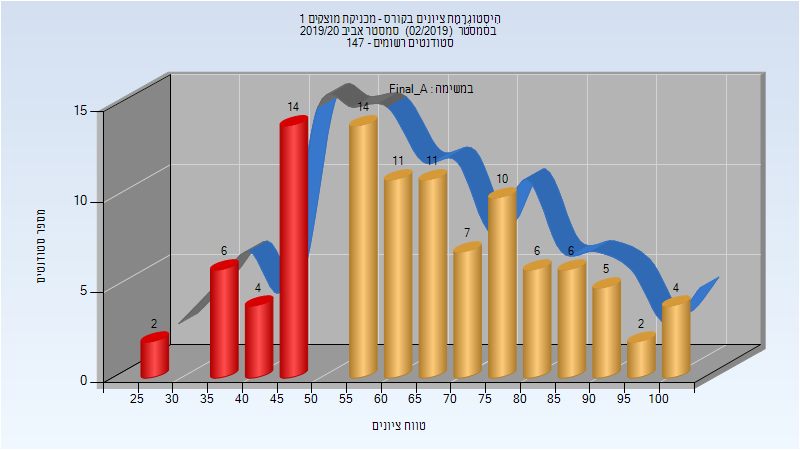
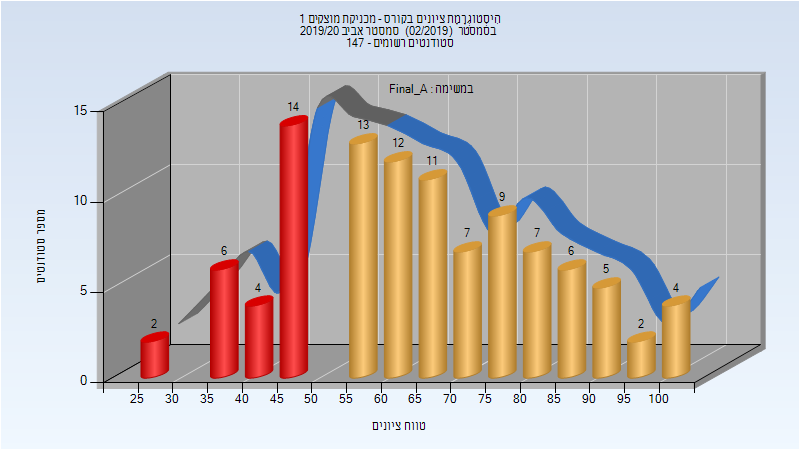
Deploy michael-maltsev/technion-histograms to github.com/michael-maltsev/technion-histograms.git:gh-pages

Changed region(s): [[0.4062, 0.1867, 0.5938, 0.4044], [0.6562, 0.4667, 0.7812, 0.6222], [0.5938, 0.3733, 0.7188, 0.4978]]

diff --git a/104131/index.html b/104131/index.html
@@ -1914,5 +1914,57 @@
 </tr>
 </tbody>
 </table>
+<h3>מבחן מועד א'</h3>
+<p><img src="201902/Exam_A.png" alt="201902 Exam_A" /></p>
+<table>
+<thead>
+<tr>
+<th>סטודנטים</th>
+<th>עברו/נכשלו</th>
+<th>אחוז עוברים</th>
+<th>ציון מינימלי</th>
+<th>ציון מקסימלי</th>
+<th>ממוצע</th>
+<th>חציון</th>
+</tr>
+</thead>
+<tbody>
+<tr>
+<td>316</td>
+<td>287/29</td>
+<td>91</td>
+<td>0</td>
+<td>100</td>
+<td>80.364</td>
+<td>86</td>
+</tr>
+</tbody>
+</table>
+<h3>סופי מועד א'</h3>
+<p><img src="201902/Final_A.png" alt="201902 Final_A" /></p>
+<table>
+<thead>
+<tr>
+<th>סטודנטים</th>
+<th>עברו/נכשלו</th>
+<th>אחוז עוברים</th>
+<th>ציון מינימלי</th>
+<th>ציון מקסימלי</th>
+<th>ממוצע</th>
+<th>חציון</th>
+</tr>
+</thead>
+<tbody>
+<tr>
+<td>316</td>
+<td>296/20</td>
+<td>94</td>
+<td>8</td>
+<td>100</td>
+<td>81.842</td>
+<td>87</td>
+</tr>
+</tbody>
+</table>
   </body>
 </html>

diff --git a/034028/index.html b/034028/index.html
@@ -1359,8 +1359,34 @@
 <td>75</td>
 <td>28</td>
 <td>100</td>
-<td>65.373</td>
-<td>64</td>
+<td>65.441</td>
+<td>64.5</td>
+</tr>
+</tbody>
+</table>
+<h3>סופי</h3>
+<p><img src="201902/Finals.png" alt="201902 Finals" /></p>
+<table>
+<thead>
+<tr>
+<th>סטודנטים</th>
+<th>עברו/נכשלו</th>
+<th>אחוז עוברים</th>
+<th>ציון מינימלי</th>
+<th>ציון מקסימלי</th>
+<th>ממוצע</th>
+<th>חציון</th>
+</tr>
+</thead>
+<tbody>
+<tr>
+<td>102</td>
+<td>76/26</td>
+<td>75</td>
+<td>28</td>
+<td>100</td>
+<td>65.441</td>
+<td>64.5</td>
 </tr>
 </tbody>
 </table>

diff --git a/104022/index.html b/104022/index.html
@@ -1893,7 +1893,7 @@
 <td>66</td>
 <td>6</td>
 <td>100</td>
-<td>62.395</td>
+<td>62.543</td>
 <td>61</td>
 </tr>
 </tbody>
@@ -1915,11 +1915,11 @@
 <tbody>
 <tr>
 <td>258</td>
-<td>194/64</td>
-<td>75</td>
+<td>198/60</td>
+<td>77</td>
 <td>6</td>
 <td>100</td>
-<td>66.074</td>
+<td>66.357</td>
 <td>68.5</td>
 </tr>
 </tbody>

diff --git a/104131/README.md b/104131/README.md
@@ -602,3 +602,19 @@
 | פוגרבניאק ילנה | מרצה - אחראי מקצוע |
 | ליטבינוב גלינה | מתרגל |
 
+### מבחן מועד א'
+
+![201902 Exam_A](201902/Exam_A.png)
+
+| סטודנטים | עברו/נכשלו | אחוז עוברים | ציון מינימלי | ציון מקסימלי | ממוצע | חציון |
+| ---- | ---- | ---- | ---- | ---- | ---- | ---- |
+| 316 | 287/29 | 91 | 0 | 100 | 80.364 | 86 |
+
+### סופי מועד א'
+
+![201902 Final_A](201902/Final_A.png)
+
+| סטודנטים | עברו/נכשלו | אחוז עוברים | ציון מינימלי | ציון מקסימלי | ממוצע | חציון |
+| ---- | ---- | ---- | ---- | ---- | ---- | ---- |
+| 316 | 296/20 | 94 | 8 | 100 | 81.842 | 87 |
+

diff --git a/104022/README.md b/104022/README.md
@@ -595,7 +595,7 @@
 
 | סטודנטים | עברו/נכשלו | אחוז עוברים | ציון מינימלי | ציון מקסימלי | ממוצע | חציון |
 | ---- | ---- | ---- | ---- | ---- | ---- | ---- |
-| 258 | 170/88 | 66 | 6 | 100 | 62.395 | 61 |
+| 258 | 170/88 | 66 | 6 | 100 | 62.543 | 61 |
 
 ### סופי מועד א'
 
@@ -603,5 +603,5 @@
 
 | סטודנטים | עברו/נכשלו | אחוז עוברים | ציון מינימלי | ציון מקסימלי | ממוצע | חציון |
 | ---- | ---- | ---- | ---- | ---- | ---- | ---- |
-| 258 | 194/64 | 75 | 6 | 100 | 66.074 | 68.5 |
+| 258 | 198/60 | 77 | 6 | 100 | 66.357 | 68.5 |
 

diff --git a/034028/README.md b/034028/README.md
@@ -422,5 +422,13 @@
 
 | סטודנטים | עברו/נכשלו | אחוז עוברים | ציון מינימלי | ציון מקסימלי | ממוצע | חציון |
 | ---- | ---- | ---- | ---- | ---- | ---- | ---- |
-| 102 | 76/26 | 75 | 28 | 100 | 65.373 | 64 |
+| 102 | 76/26 | 75 | 28 | 100 | 65.441 | 64.5 |
+
+### סופי
+
+![201902 Finals](201902/Finals.png)
+
+| סטודנטים | עברו/נכשלו | אחוז עוברים | ציון מינימלי | ציון מקסימלי | ממוצע | חציון |
+| ---- | ---- | ---- | ---- | ---- | ---- | ---- |
+| 102 | 76/26 | 75 | 28 | 100 | 65.441 | 64.5 |
 
